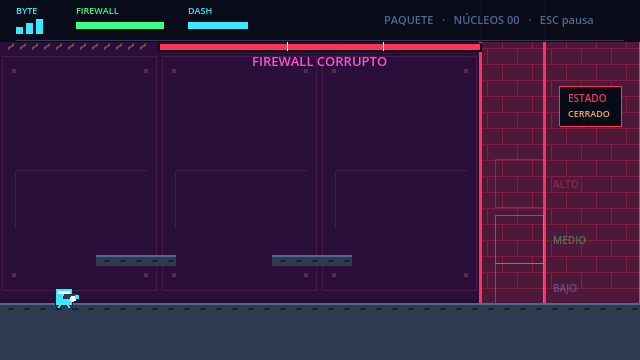
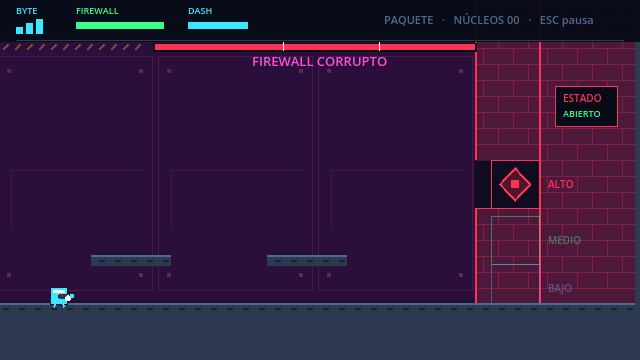
docs: registrar decisiones y capturas comparables de M13

diff --git a/game/IMPLEMENTACION.md b/game/IMPLEMENTACION.md
@@ -111,3 +111,12 @@ Validación final: import, inicio, cinco pruebas y 300 frames: exit=0, sin error
 - **Fondos.** Wi-Fi, Firewall, Servidor y Centro de datos conservan sus fondos temáticos y añaden cuadrícula y LEDs a velocidades distintas. Las tres capas quedan detrás del escenario. Red Local ya tenía tres planos.
 - **Celebración.** Los núcleos y los jefes emiten partículas en el lugar de la recogida o de la derrota. Reducir destellos elimina el anillo y atenúa las partículas. La sacudida de 150 ms funciona aunque Byte deje de moverse, y se cancela al desactivar el ajuste.
 - **Muestras.** `game/tools/export_audio.gd` genera cuatro temas y seis SFX en `docs/audio/` para revisión del equipo.
+
+## Decisiones M13
+
+- **Byte.** La carcasa de 16 × 16 px tiene cabecera, visor y contactos. El reposo usa dos fotogramas y la carrera seis. El cañón apunta y retrocede sobre la pose actual. Los píxeles de la desintegración siguen animados mientras la pantalla de derrota mantiene la simulación en pausa.
+- **Enemigos.** La silueta distingue cada especie y el metal identifica el lado blindado. La barra roja mide lo que resta del aviso y las marcas del Bot DDoS indican su abanico. Todos los proyectiles enemigos usan rosa, centro claro, contorno oscuro y prioridad de dibujo sobre el escenario.
+- **Jefes.** Las antenas, alas, puertos, cofres y órbitas distinguen sus fases. Al derrotar a cualquiera, los píxeles salen del punto de impacto y tres nodos verdes se enlazan en la tarjeta. Malwarex conserva el título «Internet restaurada». La secuencia usa el intervalo de derrota de cada arena.
+- **Escenario.** Los chips comparten bisel, pistas de cobre y LEDs de baja luminancia. Los ascensores, las plataformas de cobertura y las nubes usan el borde para comunicar su estado. Los racks y pistas del fondo quedan detrás del plano de combate.
+- **Accesibilidad y física.** El daño usa un tinte local que `reduce_flashes` suprime. Los avisos siguen visibles con intensidad fija y la restauración reduce la cantidad de partículas. La sacudida usa el ajuste existente. Las poses, partículas y tiles se dibujan por código. Los contactos, las capas de colisión y los tiempos de combate conservan sus valores.
+- **Capturas.** `tests/capture_preview.gd -- --m13-before` desde la revisión base y `--m13-after` desde M13 usan la misma galería de poses y escenas. Se ejecutan con renderer Compatibility a 60 Hz. La comparación incluye las fases de cada jefe, dos instantes de la restauración y cuatro balas sobre la arena del Router.

diff --git a/game/README.md b/game/README.md
@@ -169,7 +169,7 @@ bash tools/run-tests.sh --integration
 Vence al Troyano Real, selecciona **Centro de datos** en el mapa y pulsa **Entrar**.
 
 - **Centro de datos (5-1).** Usa las corrientes de aire para alcanzar la repisa alta. Cruza los apoyos de cobertura cerca del router, combina salto y dash entre los puertos y espera a que las nubes vuelvan a solidificarse. Busca un núcleo tras el hueco de los puertos y el otro sobre la última nube.
-- **Bot DDoS.** Cuando su carcasa se ilumina en ámbar, aléjate del abanico que apunta a Byte.
+- **Bot DDoS.** Las marcas rojas anticipan el abanico que apunta a Byte. Sus proyectiles son rosas.
 - **Prioridad de tráfico.** Pulsa **E** (o **Y / Triángulo**) en los interruptores de mayor a menor urgencia. Puedes usar **↺** para reiniciar. Cuando se abra la compuerta, camina hacia el extremo derecho.
 - **Malwarex.** Tiene 200 PV y cambia de fase al 75 %, 50 % y 25 %. Esquiva por los huecos de los cables y de la regla. En la tercera fase, conecta tres nodos para quitar los escudos. En la última, el suelo seguro queda a la izquierda.
 - **Final.** La victoria abre el epílogo y los créditos con el saldo de núcleos, las muertes y el tiempo de partida. **Nueva partida** inicia Red Local con los ajustes actuales.
@@ -182,3 +182,11 @@ bash tools/run-tests.sh --integration
 ~~~
 
 [Centro de datos](../docs/capturas/level5.png) · [Malwarex](../docs/capturas/boss5.png) · [Créditos](../docs/capturas/credits.png)
+
+## M13 · Arte procedural y animación
+
+La galería compara poses de Byte, avisos y derrotas de enemigos, todas las fases de los jefes y los cinco escenarios. [Antes](../docs/capturas/m13/antes/) · [Después](../docs/capturas/m13/despues/)
+
+```powershell
+& $godot --path game --fixed-fps 60 -s res://tests/capture_preview.gd -- --m13-after
+```
